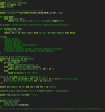
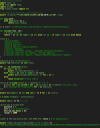
Update challenge

diff --git a/22-vs-code/src/fixed_solve.py b/22-vs-code/src/fixed_solve.py
@@ -1,0 +1,80 @@
+from itertools import chain
+from math import floor
+from sage.all import vector, RR
+from PIL import Image
+
[1 lines of base64/hex data omitted]
+
+pixels = [floor(int(intensities[i:i+2], base=16)*4/5) for i in range(0,len(intensities),2)]
+
+pairs = [vector(pixels[i:i+2]) for i in range(0,len(pixels),2)]
+
+def gen_reference(s, coord):
+    return [((coord[1]-1+i, coord[0]-1),c) for i,c in enumerate(s)]
+
+with Image.open("../public/chall.png") as im:
+    rgb_im = im.convert('RGB')
+    bg = vector(rgb_im.getpixel((rgb_im.width-1,0)))
+
+    def calculate(*references):
+        reference = list(chain(*chain(gen_reference(*r) for r in references)))
+
+        candidates = [list(range(256)) for _ in range(3)]
+        for coord, letter in reference:
+            pair_info = [
+                tuple(vector(rgb_im.getpixel((coord[0],coord[1]*2+i)))-bg) for i in range(2)
+            ]
+            channels = tuple(zip(*pair_info))
+            for i, ch in enumerate(channels):
+                temp = [x for x in candidates[i] if tuple(round(x) for x in pairs[ord(letter)-32]*(x-bg[0])/255) == ch]
+                # if len(temp) != len(candidates[i]):
+                #     print(letter, pairs[ord(letter)-32])
+                candidates[i] = temp
+                if len(candidates[i]) == 0:
+                    print(f"Channel #{i} failed")
+            
+            if all(len(x)==1 for x in candidates):
+                print(letter, *[hex(l[0])[2:] for l in candidates])
+                break
+        else:
+            print(letter, *[[hex(x)[2:] for x in l] for l in candidates])
+    
+    calculate(("#!/usr/bin/env python3", (1,1)))
+    calculate(("import", (2,1)))
+    calculate(("json, re", (2,8)))
+    calculate(("\\x62\\u0036\\141", (8,20)))
+    calculate(("A-Za-z0-9-_", (8,40)))
+    calculate(
+        ("[", (8,39)),
+        ("]+", (8,51)),
+    )
+    calculate(
+        ('def', (10,1))
+    )
+    calculate(
+        ('.vscode/settings.json', (14,12))
+    )
+    calculate(
+        ('type', (18,24))
+    )
+    calculate(
+        ('in', (18,48)),
+        ('or', (37,26)),
+    )
+    calculate(
+        ('False', (18,77))
+    )
+    calculate(
+        ('enumerate', (34,12))
+    )
+    calculate(
+        ('*', (43,5)),
+        ('<=', (51,15)),
+    )
+    calculate(
+        ('72', (51,18)),
+        ('32', (56,25)),
+    )
+    calculate(
+        ('password', (54,5)),
+    )

diff --git a/22-vs-code/src/chall.py b/22-vs-code/src/chall.py
@@ -1,37 +1,40 @@
 #!/usr/bin/env python3
-import json, re, subprocess
+import json, re
 from flag import flag
 import bcrypt
+from Crypto.Cipher import AES
 
 # the flag does match the prescribed format
 assert re.match(r"^\x62\u0036\141ctf\{[A-Za-z0-9-_]+\}$", flag)
 
 def oapj(path):
     with open(path) as p:
-        return json.loads(re.sub("//.*","",p.read(),flags=re.M))
+        return json.load(p)
 
 ws = oapj(".vscode/settings.json")["editor.tokenColorCustomizations"]
 
 def inscope(rule, val):
     r = rule['scope']
-    return r==val if type(r)==str else val in r if type(r)==list else False
+    return r == val if type(r) == str else val in r if type(r) == list else False
 
-rules=[
+rules = [
     "source.python",
     "keyword.control",
     "keyword.operator",
     "keyword.operator.logical.python",
     "constant.language",
-    ["constant.character.escape","constant.character.unicode"],
-    ["constant.character.set.regexp","string.regexp"],
+    ["constant.character.escape", "constant.character.unicode"],
+    ["constant.character.set.regexp", "string.regexp"],
+    ["constant.other.set.regexp", "keyword.operator.quantifier.regexp"]
 ]
 
 tmdrules = ws['textMateRules']
 assert len(tmdrules) == len(rules)
+
 for i,r in enumerate(rules):
-    if type(r)==str:
+    if type(r) == str:
         assert inscope(tmdrules[i], r)
-    elif type(r)==list or type(r)==tuple:
+    elif type(r) == list or type(r) == tuple:
         assert all(inscope(tmdrules[i], x) for x in r)
     else:
         raise Exception("0 mark redo")
@@ -41,11 +44,19 @@ colors = list(map(lambda x: x.replace("#",""), [
     *(t["settings"]["foreground"] for t in tmdrules)
 ]))
 
-assert all(type(x) == str and len(x)==6 for x in colors)
+assert all(type(x) == str and len(x) == 6 for x in colors)
 
-peppered_flag = flag.encode('utf-8') + bytes.fromhex("".join(colors))
+b = bytes.fromhex("".join(colors))
 
-assert len(peppered_flag)<=72 # bcrypt
+assert len(b) <= 72 # bcrypt
 
-# every trial counts
-assert bcrypt.checkpw(peppered_flag, b'$2b$13$6Od/kTTrv619HcJUWmu9yO1UNiz.sdzpeIz.HwaAxVUR46l05Lxsm')
+secure_key = bcrypt.kdf(
+    password = b,
+    salt = b'no bruteforcing',
+    desired_key_bytes = 32,
+    rounds = 1000
+)
+
+cipher = AES.new(secure_key, AES.MODE_CTR, nonce = b"no gamcholium")
+
[1 lines of base64/hex data omitted]

diff --git a/22-vs-code/src/flag.py b/22-vs-code/src/flag.py
@@ -1,1 +1,1 @@
-flag = "b6actf{d4zZzZl1ng_c0lOu125}"
+flag = "b6actf{D4zZ2l1ng_c0lOur5_bu7_u_hav3_s3En_nth_y37}"

diff --git a/22-vs-code/src/intendedSolution.md b/22-vs-code/src/intendedSolution.md
@@ -1,0 +1,219 @@
+# Skills required: Data analysis
+
+In this challenge, players receive a png file taken from the *minimap* of VSCode[1] as hinted at title. By default `editor.minimap.renderCharacters` is on and this can leak the whole program, given sufficient code text.
+
+While the source code syntax coloring is customized (we'll go through that later), it is highly reminiscent of Python. To increase the fun and reduce bruteforcing though, I have:
+
+- Increased bcrypt rounds to 13
+- Append actual colors used before hashing
+- changed the background to #202020 to be more theme agnostic
+
+Here's a suggested solve path:
+
+1. Solve the cryptogram
+1. Identify exactly the various text colors
+1. Understanding the workspace setting
+1. Get flag
+
+### Solve the cryptogram
+
+There are many ways to approach this part since the characters themselves are intact.
+
+It is possible to recover 99% of the program, aside from some hard to distinguish characters like `/` vs `\`, `s` vs `{` vs `}`. It is however possible to sort them out by context.
+
+```py
+#!/usr/bin/env python3
+import json, re
+from flag import flag
+import bcrypt
+from Crypto.Cipher import AES
+
+# the flag does match the prescribed format
+assert re.match(r"^\x62\u0036\141ctf\{[A-Za-z0-9-_]+\}$", flag)
+
+def oapj(path):
+    with open(path) as p:
+        return json.load(p)
+
+ws = oapj(".vscode/settings.json")["editor.tokenColorCustomizations"]
+
+def inscope(rule, val):
+    r = rule['scope']
+    return r == val if type(r) == str else val in r if type(r) == list else False
+
+rules = [
+    "source.python",
+    "keyword.control",
+    "keyword.operator",
+    "keyword.operator.logical.python",
+    "constant.language",
+    ["constant.character.escape", "constant.character.unicode"],
+    ["constant.character.set.regexp", "string.regexp"],
+    ["constant.other.set.regexp", "keyword.operator.quantifier.regexp"]
+]
+
+tmdrules = ws['textMateRules']
+assert len(tmdrules) == len(rules)
+
+for i,r in enumerate(rules):
+    if type(r) == str:
+        assert inscope(tmdrules[i], r)
+    elif type(r) == list or type(r) == tuple:
+        assert all(inscope(tmdrules[i], x) for x in r)
+    else:
+        raise Exception("0 mark redo")
+
+colors = list(map(lambda x: x.replace("#",""), [
+    *(ws[k] for k in sorted(x for x in ws.keys() if re.match("^[a-z]+$", x))),
+    *(t["settings"]["foreground"] for t in tmdrules)
+]))
+
+assert all(type(x) == str and len(x) == 6 for x in colors)
+
+b = bytes.fromhex("".join(colors))
+
+assert len(b) <= 72 # bcrypt
+
+secure_key = bcrypt.kdf(
+    password = b,
+    salt = b'no bruteforcing',
+    desired_key_bytes = 32,
+    rounds = 1000
+)
+
+cipher = AES.new(secure_key, AES.MODE_CTR, nonce = b"no gamcholium")
+
[1 lines of base64/hex data omitted]
+```
+
+### Identify exactly the various text colors
+
+Knowing the program plaintext allows us to reverse the colors blazing fast. This challenge works in the first place because minimap (at zoom level 1) is font agnostic as demonstrated [in the actual official source code](https://github.com/microsoft/vscode/blob/main/src/vs/editor/browser/viewParts/minimap/minimapPreBaked.ts)
+
+There are minute details like whether to `round` or `floor`. If replicating it seems to much, it's advisable to create your own image where everything's well-known.
+
+Usually it takes 2~6 characters to completely determine the color.
+
+```py
+from itertools import chain
+from math import floor
+from sage.all import vector, RR
+from PIL import Image
+
[1 lines of base64/hex data omitted]
+
+pixels = [floor(int(intensities[i:i+2], base=16)*4/5) for i in range(0,len(intensities),2)]
+
+pairs = [vector(pixels[i:i+2]) for i in range(0,len(pixels),2)]
+
+def gen_reference(s, coord):
+    return [((coord[1]-1+i, coord[0]-1),c) for i,c in enumerate(s)]
+
+with Image.open("../public/chall.png") as im:
+    rgb_im = im.convert('RGB')
+    bg = vector(rgb_im.getpixel((rgb_im.width-1,0)))
+
+    def calculate(*references):
+        reference = list(chain(*chain(gen_reference(*r) for r in references)))
+
+        candidates = [list(range(256)) for _ in range(3)]
+        for coord, letter in reference:
+            pair_info = [
+                tuple(vector(rgb_im.getpixel((coord[0],coord[1]*2+i)))-bg) for i in range(2)
+            ]
+            channels = tuple(zip(*pair_info))
+            for i, ch in enumerate(channels):
+                temp = [x for x in candidates[i] if tuple(round(x) for x in pairs[ord(letter)-32]*(x-bg[0])/255) == ch]
+                # if len(temp) != len(candidates[i]):
+                #     print(letter, pairs[ord(letter)-32])
+                candidates[i] = temp
+                if len(candidates[i]) == 0:
+                    print(f"Channel #{i} failed")
+            
+            if all(len(x)==1 for x in candidates):
+                print(letter, *[hex(l[0])[2:] for l in candidates])
+                break
+        else:
+            print(letter, *[[hex(x)[2:] for x in l] for l in candidates])
+    
+    calculate(("#!/usr/bin/env python3", (1,1)))
+    calculate(("import", (2,1)))
+    calculate(("json, re", (2,8)))
+    calculate(("\\x62\\u0036\\141", (8,20)))
+    calculate(("A-Za-z0-9-_", (8,40)))
+    calculate(
+        ("[", (8,39)),
+        ("]+", (8,51)),
+    )
+    calculate(
+        ('def', (10,1))
+    )
+    calculate(
+        ('.vscode/settings.json', (14,12))
+    )
+    calculate(
+        ('type', (18,24))
+    )
+    calculate(
+        ('in', (18,48)),
+        ('or', (37,26)),
+    )
+    calculate(
+        ('False', (18,77))
+    )
+    calculate(
+        ('enumerate', (34,12))
+    )
+    calculate(
+        ('*', (43,5)),
+        ('<=', (51,15)),
+    )
+    calculate(
+        ('72', (51,18)),
+        ('32', (56,25)),
+    )
+    calculate(
+        ('password', (54,5)),
+    )
+```
+
+### Understanding the workspace setting
+
+Theme colorization is governed by the workspace setting at `.vscode/settings.json`, under `editor.tokenColorCustomizations`
+
+Besides the known entries under `textMateRules`, there are also:
+
+```
+comments
+functions
+keywords
+numbers
+strings
+types
+variables
+```
+
+The `Ctrl+Shift+P` `Developer: Inspect Editor Tokens and Scopes` hotkey could be handy:
+
+|categories|color|keywords or remark|
+|-|-|-|
+|comments| #315528 | comments |
+|functions| #6cf73e | builtin functions like `open`,`len`,`map` excluding types<br/>function names in declarations |
+|keywords| #279c00 | `def` and `lambda` (and also `r` in regex string) |
+|numbers| #f5e6a0 | plain numbers |
+|strings| #138f13 | plain string,<br/>regex strings are rendered a bit differently |
+|types| #49d11b | `int`, `tuple`, `Exception` |
+|variables| #ccdd99 | function parameters and named arguments |
+|source.python|#5a8f5a| variables and modules, overrides function calls |
+|keyword.control|#beff33| `import`, `from`, `if`... |
+|keyword.operator|#ffffbe| `<`, `=`, `*`, `+` |
+|keyword.operator.logical.python|#00ff00| only `or` and `in` are shown.<br/>Doesn't apply to `for _ in _` |
+|constant.language|#ecff58| only `False` |
+|constant.character.escape,<br/>constant.character.unicode|#85c656| used to deter guessing |
+|constant.character.set.regexp,<br/>string.regexp|#defaca| plain string and character sets in regexs |
+|constant.other.set.regexp<br/>keyword.operator.quantifier.regexp|#acfe09| Touches up so that `[]+` doesn't look out of place.<br/>**The only undetermined color `#acfe0[89a]`** |
+
+### Get your flag and profit!
+
+Notes:
+- [1] Actually Codium is used.
